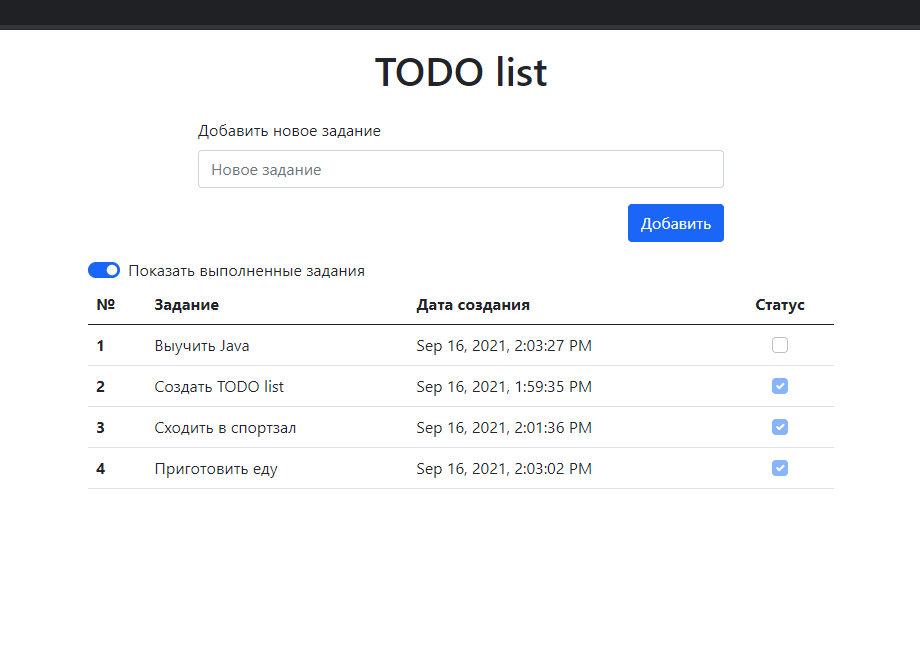
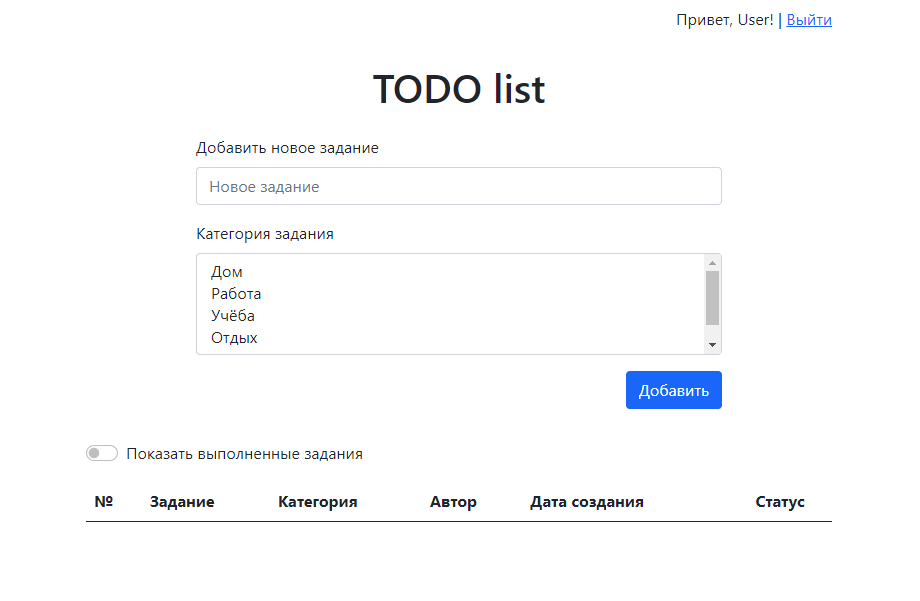
4. Категории в TODO List [#331991]

diff --git a/src/main/webapp/service/index.js b/src/main/webapp/service/index.js
@@ -17,6 +17,7 @@ function getItems() {
             let count = 1;
             let checked;
             let str = "";
+            let categories = "";
             for (let item of data) {
                 if (item.done) {
                     if (!showAll) {
@@ -26,16 +27,25 @@ function getItems() {
                 } else {
                     checked = "";
                 }
+                $.each(item.categories, function (index, value) {
+                    if (index === item.categories.length - 1) {
+                        categories += value.name;
+                    } else {
+                        categories += value.name + ", ";
+                    }
+                });
                 str +=
                     `<tr>` +
                     `<th scope="row">${count++}</th>` +
                     `<td>${item.description}</td>` +
+                    `<td>${categories}</td>` +
                     `<td>${item.user.name}</td>` +
                     `<td>${item.created}</td>` +
                     `<td class="text-center">` +
                     `<input class="form-check-input" type="checkbox" ${checked} onclick="update(${item.id})">` +
                     `</td>` +
                     `</tr>`;
+                categories = "";
             }
             $('table tbody').html(str);
         },
@@ -45,38 +55,29 @@ function getItems() {
     });
 }
 
-function validateAndCreate() {
+function validate() {
     let description = $('#description').val();
+    let categories = $('#categories').val();
 
     if (description === "") {
         alert($('#description').attr('title'));
-    } else {
-        $.ajax({
-            type: 'POST',
-            url: '/job4j_todo/item.do',
-            data: JSON.stringify({
-                description: description
-            }),
-            async: false,
-            error: function (err) {
-                console.log(err);
-            }
-        });
+        return false;
+    } else if (categories.length === 0) {
+        alert($('#categories').attr('title'));
+        return false;
     }
-    getItems();
+    return true;
 }
 
 function update(id) {
-    $.ajax({
-        type: 'POST',
+    $.get($.ajax({
+        type: 'PUT',
         url: '/job4j_todo/item.do',
         data: JSON.stringify({
             id: id
         }),
-        async: false,
         error: function (err) {
             console.log(err);
         }
-    });
-    getItems();
+    })).done(getItems());
 }

diff --git a/src/main/java/ru/job4j/todo/store/HibernateStore.java b/src/main/java/ru/job4j/todo/store/HibernateStore.java
@@ -6,6 +6,7 @@ import org.hibernate.Transaction;
 import org.hibernate.boot.MetadataSources;
 import org.hibernate.boot.registry.StandardServiceRegistry;
 import org.hibernate.boot.registry.StandardServiceRegistryBuilder;
+import ru.job4j.todo.model.Category;
 import ru.job4j.todo.model.Item;
 import ru.job4j.todo.model.User;
 
@@ -24,8 +25,15 @@ public class HibernateStore implements AutoCloseable {
         return Lazy.INST;
     }
 
-    public void createItem(Item item) {
-        transaction(session -> session.save(item));
+    public void createItem(Item item, String[] categoriesId) {
+        transaction(session -> {
+            for (String id : categoriesId) {
+                Category category = session.find(Category.class, Integer.parseInt(id));
+                item.addCategory(category);
+            }
+            session.save(item);
+            return true;
+        });
     }
 
     public void createUser(User user) {
@@ -46,14 +54,21 @@ public class HibernateStore implements AutoCloseable {
 
     public List<Item> findAllItems() {
         return transaction(session -> session.createQuery(
-                "FROM ru.job4j.todo.model.Item ORDER BY done, created"
-        ).list());
+                        "SELECT DISTINCT i FROM Item i JOIN FETCH i.categories ORDER BY i.done, i.created"
+                ).list()
+        );
     }
 
     public User findUserByEmail(String email) {
         return (User) transaction(session -> session.createQuery(
                 "FROM User WHERE email = :email"
         ).setParameter("email", email).uniqueResult());
+    }
+
+    public List<Category> findAllCategories() {
+        return transaction(session -> session.createQuery(
+                "FROM Category"
+        ).list());
     }
 
     @Override

diff --git a/src/main/java/ru/job4j/todo/servlet/ItemServlet.java b/src/main/java/ru/job4j/todo/servlet/ItemServlet.java
@@ -33,16 +33,23 @@ public class ItemServlet extends HttpServlet {
     @Override
     protected void doPost(HttpServletRequest req, HttpServletResponse resp) throws IOException {
         req.setCharacterEncoding("UTF-8");
+        HttpSession session = req.getSession();
+        User user = (User) session.getAttribute("user");
+        String description = req.getParameter("description");
+        String[] categoriesId = req.getParameterValues("categories");
+        Item item = new Item();
+        item.setUser(user);
+        item.setDescription(description);
+        item.setCreated(new Timestamp(System.currentTimeMillis()));
+        HibernateStore.instOf().createItem(item, categoriesId);
+        resp.sendRedirect(req.getContextPath() + "/index.do");
+    }
+
+    @Override
+    protected void doPut(HttpServletRequest req, HttpServletResponse resp) throws IOException {
+        req.setCharacterEncoding("UTF-8");
         Item item = GSON.fromJson(req.getReader(), Item.class);
-        if (item.getId() == 0) {
-            HttpSession session = req.getSession();
-            User user = (User) session.getAttribute("user");
-            item.setUser(user);
-            item.setCreated(new Timestamp(System.currentTimeMillis()));
-            HibernateStore.instOf().createItem(item);
-        } else {
-            item.setDone(true);
-            HibernateStore.instOf().updateItem(item);
-        }
+        item.setDone(true);
+        HibernateStore.instOf().updateItem(item);
     }
 }

diff --git a/src/main/java/ru/job4j/todo/model/Category.java b/src/main/java/ru/job4j/todo/model/Category.java
@@ -1,0 +1,59 @@
+package ru.job4j.todo.model;
+
+import javax.persistence.*;
+import java.util.Objects;
+
+@Entity
+@Table(name = "categories")
+public class Category {
+    @Id
+    @GeneratedValue(strategy = GenerationType.IDENTITY)
+    private int id;
+
+    private String name;
+
+    public Category() {
+    }
+
+    public Category(String name) {
+        this.name = name;
+    }
+
+    public int getId() {
+        return id;
+    }
+
+    public void setId(int id) {
+        this.id = id;
+    }
+
+    public String getName() {
+        return name;
+    }
+
+    public void setName(String name) {
+        this.name = name;
+    }
+
+    @Override
+    public boolean equals(Object o) {
+        if (this == o) {
+            return true;
+        }
+        if (o == null || getClass() != o.getClass()) {
+            return false;
+        }
+        Category category = (Category) o;
+        return id == category.id;
+    }
+
+    @Override
+    public int hashCode() {
+        return Objects.hash(id);
+    }
+
+    @Override
+    public String toString() {
+        return "Category{" + "id=" + id + ", name='" + name + '\'' + '}';
+    }
+}

diff --git a/src/main/java/ru/job4j/todo/model/Item.java b/src/main/java/ru/job4j/todo/model/Item.java
@@ -2,6 +2,8 @@ package ru.job4j.todo.model;
 
 import javax.persistence.*;
 import java.sql.Timestamp;
+import java.util.ArrayList;
+import java.util.List;
 import java.util.Objects;
 
 @Entity
@@ -20,6 +22,18 @@ public class Item {
     @ManyToOne
     @JoinColumn(name = "user_id")
     private User user;
+
+    @ManyToMany(cascade = {CascadeType.PERSIST, CascadeType.MERGE})
+    @JoinTable(
+            name = "items_categories",
+            joinColumns = @JoinColumn(name = "item_id"),
+            inverseJoinColumns = @JoinColumn(name = "category_id")
+    )
+    private List<Category> categories = new ArrayList<>();
+
+    public void addCategory(Category category) {
+        categories.add(category);
+    }
 
     public int getId() {
         return id;
@@ -59,6 +73,14 @@ public class Item {
 
     public void setUser(User user) {
         this.user = user;
+    }
+
+    public List<Category> getCategories() {
+        return categories;
+    }
+
+    public void setCategories(List<Category> categories) {
+        this.categories = categories;
     }
 
     @Override

diff --git a/src/main/java/ru/job4j/todo/servlet/IndexServlet.java b/src/main/java/ru/job4j/todo/servlet/IndexServlet.java
@@ -1,14 +1,20 @@
 package ru.job4j.todo.servlet;
 
+import ru.job4j.todo.model.Category;
+import ru.job4j.todo.store.HibernateStore;
+
 import javax.servlet.ServletException;
 import javax.servlet.http.HttpServlet;
 import javax.servlet.http.HttpServletRequest;
 import javax.servlet.http.HttpServletResponse;
 import java.io.IOException;
+import java.util.List;
 
 public class IndexServlet extends HttpServlet {
     @Override
     protected void doGet(HttpServletRequest req, HttpServletResponse resp) throws ServletException, IOException {
+        List<Category> categories = HibernateStore.instOf().findAllCategories();
+        req.setAttribute("categories", categories);
         req.getRequestDispatcher("/view/index.jsp").forward(req, resp);
     }
 }

diff --git a/src/main/java/ru/job4j/todo/servlet/RegServlet.java b/src/main/java/ru/job4j/todo/servlet/RegServlet.java
@@ -24,7 +24,7 @@ public class RegServlet extends HttpServlet {
             sc.setAttribute("user", user);
             resp.sendRedirect(req.getContextPath() + "/index.do");
         } catch (Exception e) {
-            req.setAttribute("error", "Пользователь с таким e-mail уже существует!");
+            req.setAttribute("error", "Пользователь с таким e-mail уже существует");
             req.getRequestDispatcher("/view/reg.jsp").forward(req, resp);
         }
     }

diff --git a/README.md b/README.md
@@ -10,18 +10,20 @@
 
 ## Описание
 Приложение представляет собой список заданий, которые нужно выполнить.
-Для хранения данных применяется Hibernate. 
-Данные загружаются на страницу с помощью AJAX-запросов к Java сервлетам, которые возвращают данные в формате JSON.
-Все изменения списка производятся динамически, без перезагрузки страницы.
+Для хранения данных применяется PostgreSQL и Hibernate. 
+Данные загружаются на страницу с помощью AJAX-запросов к Java-сервлетам,
+которые возвращают данные в формате JSON.
 
 ## Функционал
+* Регистрация и авторизация пользователя
 * Добавление заданий в TODO-list
+* Выбор категории задания
 * Возможность пометить задание как выполненное
-* Вывод только незавершённых заданий
-* Вывод всех заданий
+* Вывод на страницу всех заданий
+* Вывод на страницу только незавершённых заданий
 
 ## Технологии
-* Java14
+* Java 14
 * Servlets
 * PostgreSQL
 * Hibernate
@@ -33,25 +35,44 @@
 * Bootstrap
 
 ## Интерфейс
-Попробуем добавить задание ничего не введя в поле ввода
+Начальная страница представляет собой форму авторизации
 
 ![](screenshots/screenshot_1.png)
 
-Введём задание
+При попытке авторизоваться под несуществующим аккаунтом выводится оповещение
 
 ![](screenshots/screenshot_2.png)
 
-Нажмём кнопку "Добавить"
+Нажав на кнопку "Регистрация", попадаем на страницу регистрации. При вводе уже зарегистрированного
+e-mail, так же выводится оповещение
 
 ![](screenshots/screenshot_3.png)
 
-Отметим выполненные задания с помощью чекбоксов "Статус" и нажмём на чекбокс "Показать выполненные задания"
+Регистрируемся и попадаем на главную страницу
 
 ![](screenshots/screenshot_4.png)
 
-Для того чтобы скрыть выполненные задания, нажмём на чекбокс "Показать выполненные задания" ещё раз
+Вводим задание, выбираем одну или несколько категорий
 
 ![](screenshots/screenshot_5.png)
+
+Нажимаем на кнопку "Добавить", задание помещается в таблицу
+
+![](screenshots/screenshot_6.png)
+
+В таблице отображаются задания всех пользователей.
+Добавим ещё несколько заданий под разными аккаунтами
+
+![](screenshots/screenshot_7.png)
+
+Чтобы отметить задание как выполненное, нужно нажать на чекбокс в колонке "Статус".
+Отметим первые два задания, они исчезнут из таблицы. Для того, чтобы просмотреть выполненные
+задания, нужно нажать на чекбокс "Показать выполненные задания".
+
+![](screenshots/screenshot_8.png)
+
+При нажатии на кнопку "Выйти" происходит удаление пользователя из сессии и перенаправление на
+страницу авторизации.
 
 ## Автор
 
